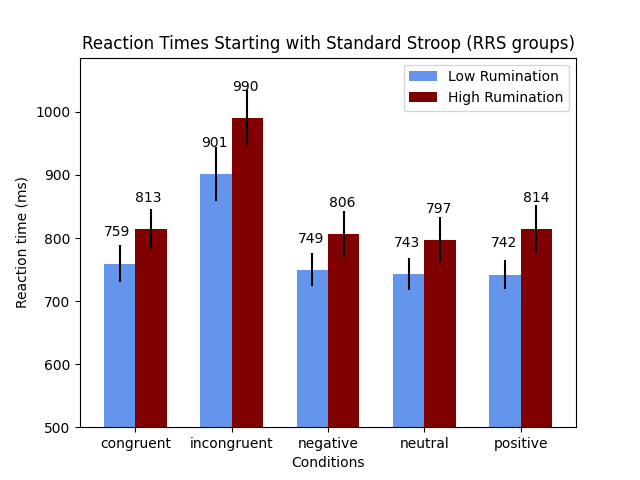
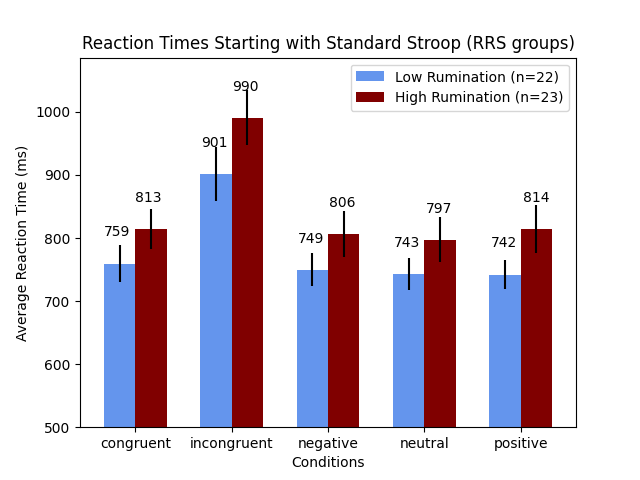
updated graphs, uploaded R file for mixed linear models

Changed region(s): [[0.5312, 0.125, 0.875, 0.2188], [0.0, 0.3125, 0.0625, 0.7188]]

diff --git a/analyze.py b/analyze.py
@@ -83,22 +83,26 @@ emotion_state_sd =  pd.concat([emotion_first_state_low_sd.rename('Low Rumination
 sds = [standard_trait_sd, standard_state_sd, emotion_trait_sd, emotion_state_sd]
 
 block_labels = [['Standard', 'RRS'], ['Standard', 'BSRI'], ['Emotional', 'RRS'], ['Emotional', 'BSRI']]
+ns = [[22, 23], [23, 23], [19, 20], [19, 20] ] # participants for low and high groups respectively
 
-# Uncomment this block to show rt graphs per condition
 # Started with standard Stroop graph
-# for block in range(len(means)):
-#     mean = means[block]
-#     sd = sds[block]
-#     block_label = block_labels[block]
-#     ax = mean.plot(x='Conditions', y = ['Low Rumination', 'High Rumination'], kind = 'bar', yerr=sd, rot = 0, color=['cornflowerblue', 'maroon'], width=0.65)
-#     plt.ylim(bottom=500) # limit y-min to see differences better
-#     # add bar values
-#     for i, p in enumerate(ax.patches):
-#         ax.annotate(str(int(p.get_height())), (p.get_x() * 1.005, p.get_height() + 43))
-#     plt.ylabel('Reaction time (ms)')
-#     plt.title(f'Reaction Times Starting with {block_label[0]} Stroop ({block_label[1]} groups)')
+# Uncomment this block to show rt graphs per condition
+for block in range(len(means)):
+    mean = means[block]
+    sd = sds[block]
+    block_label = block_labels[block]
+    ax = mean.plot(x='Conditions', y = ['Low Rumination', 'High Rumination'], kind = 'bar', yerr=sd, rot = 0, color=['cornflowerblue', 'maroon'], width=0.65)
+    leg = ax.legend()
+    leg.get_texts()[0].set_text(f'Low Rumination (n={ns[block][0]})')
+    leg.get_texts()[1].set_text(f'High Rumination (n={ns[block][1]})')
+    plt.ylim(bottom=500) # limit y-min to see differences better
+    # add bar values
+    for i, p in enumerate(ax.patches):
+        ax.annotate(str(int(p.get_height())), (p.get_x() * 1.005, p.get_height() + 43))
+    plt.ylabel('Average Reaction Time (ms)')
+    plt.title(f'Reaction Times Starting with {block_label[0]} Stroop ({block_label[1]} groups)')
 
-# plt.show()
+plt.show()
 
 ###############################################################################################################
 # Checking sex breakdown
@@ -230,7 +234,7 @@ leg.get_texts()[0].set_text('Standard-first')
 leg.get_texts()[1].set_text('Emotion-first')
 plt.ylabel('RRS mean score')
 plt.title('Mean RRS Scores based on Rumination and Counterbalancing Group')
-plt.show()
+# plt.show()
 
 # create data frame from data above to plot bsri groups
 bsri_df = pd.DataFrame()
@@ -255,4 +259,4 @@ leg.get_texts()[0].set_text('Standard-first')
 leg.get_texts()[1].set_text('Emotion-first')
 plt.ylabel('BSRI mean score')
 plt.title('Mean BSRI Scores based on Rumination and Counterbalancing Group')
-plt.show()
+# plt.show()
